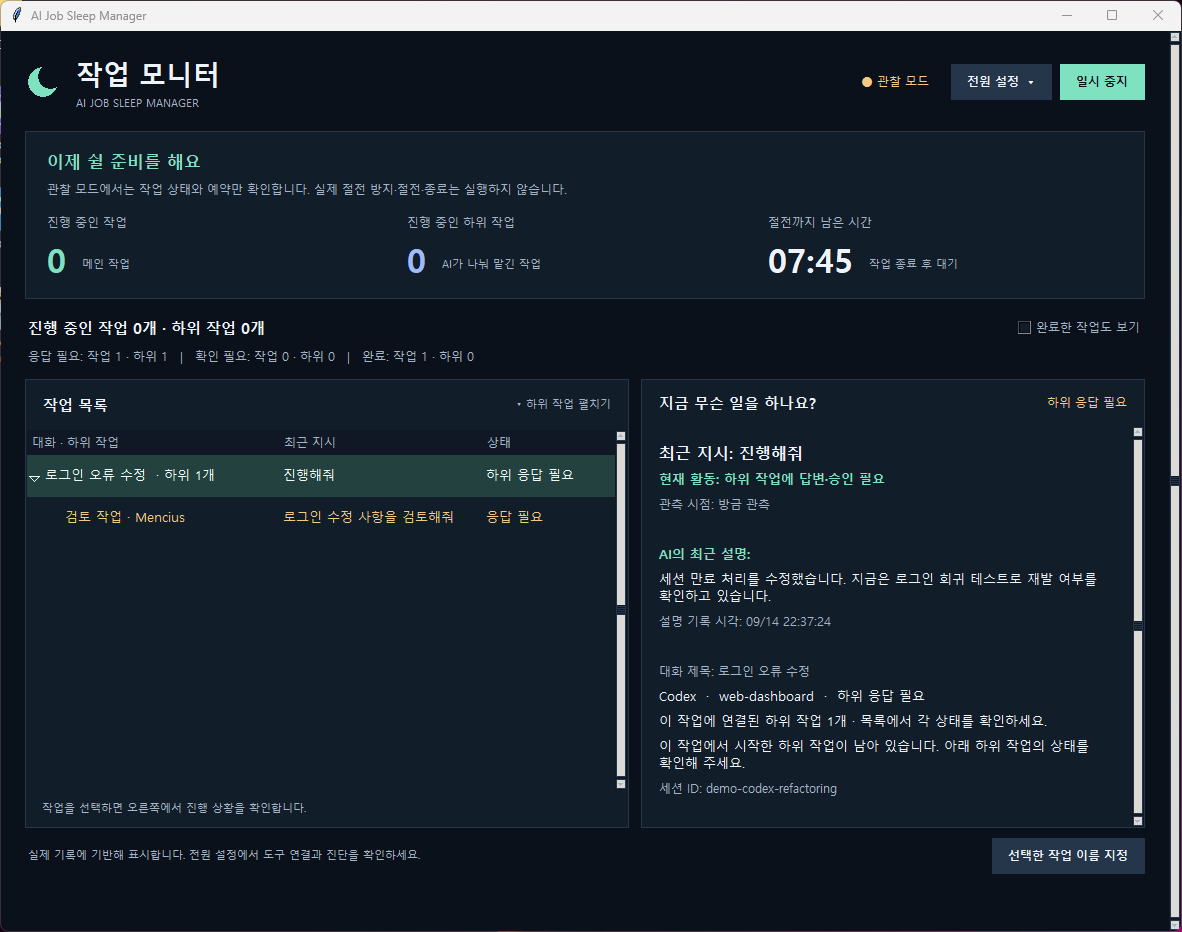
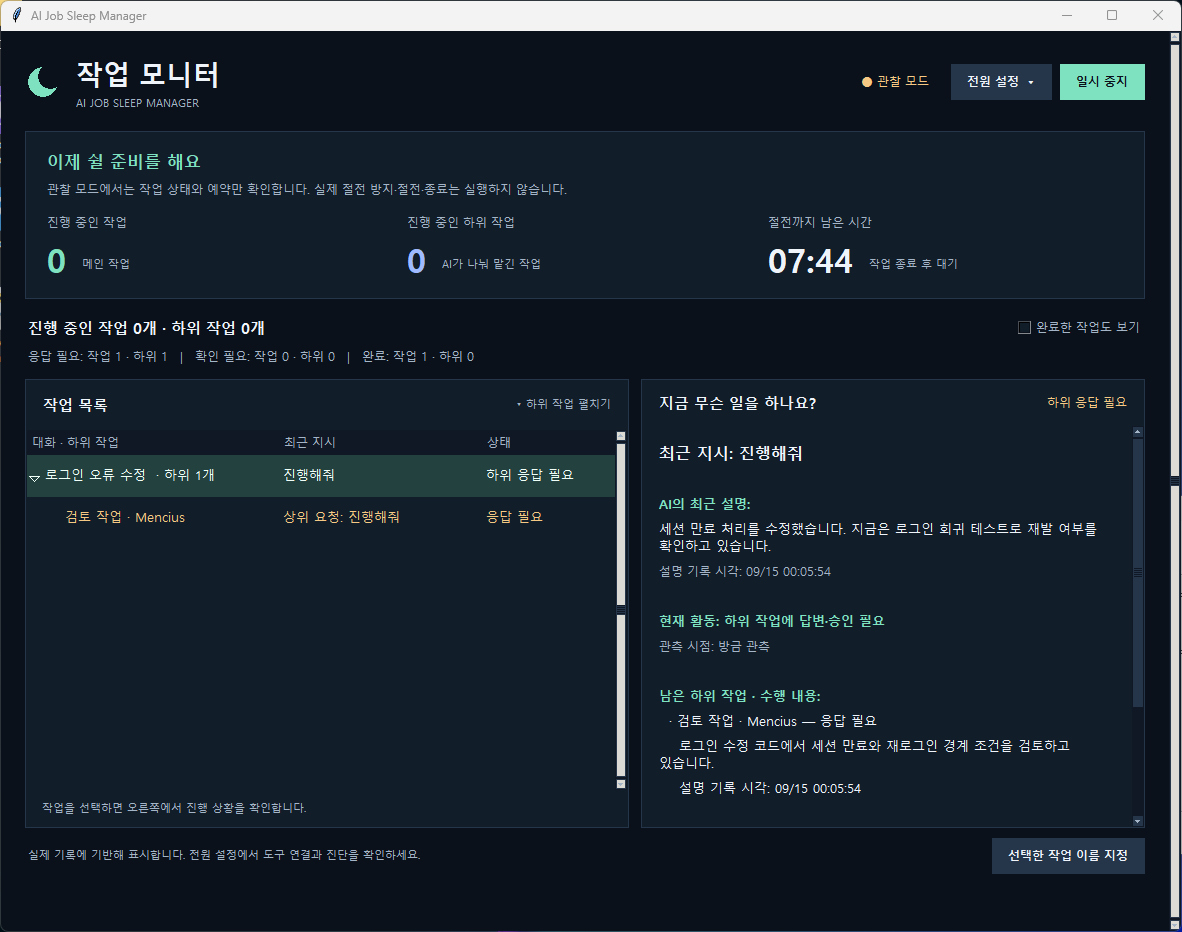
Recover latest requests and connect child task progress

diff --git a/tests/test_request_flow.py b/tests/test_request_flow.py
@@ -1,0 +1,105 @@
+import json
+import tempfile
+import unittest
+from pathlib import Path
+from unittest.mock import patch
+from sleep_manager.codex_logs import CodexLogs
+from sleep_manager.engine import Job
+from sleep_manager.job_view import job_row,group_jobs
+from sleep_manager.activity_view import user_message
+
+SID='00000000-0000-0000-0000-000000000001'
+def record(tag,kind,**kwargs):
+    return dict(type=tag,timestamp='2026-09-14T12:00:00Z',payload=dict(type=kind,**kwargs))
+def directive(value):
+    return record('response_item','message',role='user',content=[dict(type='input_text',text=value)])
+def turn(value): return record('event_msg','task_started',turn_id=value)
+def filler(): return record('response_item','function_call_output',call_id='x',output='x'*1800)
+
+class RequestFlowTests(unittest.TestCase):
+    def read(self,records):
+        with tempfile.TemporaryDirectory() as d:
+            p=Path(d)/('rollout-'+SID+'.jsonl')
+            p.write_text(''.join(json.dumps(r)+'\n' for r in records),encoding='utf-8')
+            reader=CodexLogs(d)
+            with patch('sleep_manager.codex_logs.MAX_READ',2048): events=reader.poll()
+            return reader.details.get(SID,{}),events
+
+    def test_request_outside_tail_is_recovered_without_changing_lifecycle(self):
+        info,events=self.read([turn('current'),directive('구현해줘')]+[filler()]*5)
+        self.assertEqual(info.get('latest_request'),'구현해줘')
+        self.assertEqual(info.get('request_turn'),'current')
+        self.assertEqual([e['kind'] for e in events],['unknown'])
+
+    def test_large_tool_output_between_request_and_tail_does_not_hide_request(self):
+        from sleep_manager.request_history import recover_request
+        with tempfile.TemporaryDirectory() as d:
+            p=Path(d)/'log.jsonl'
+            large=record('response_item','function_call_output',call_id='x',output='x'*(5*1024*1024))
+            p.write_text(''.join(json.dumps(r)+'\n' for r in [turn('current'),directive('구현해줘'),large,filler()]),encoding='utf-8')
+            self.assertEqual(recover_request(p,p.stat().st_size).get('latest_request'),'구현해줘')
+
+    def test_new_turn_without_user_never_inherits_previous_request(self):
+        info,_=self.read([turn('old'),directive('OLD'),turn('new')]+[filler()]*5)
+        self.assertFalse(info.get('latest_request'))
+
+    def test_latest_steering_wins_and_context_is_not_a_request(self):
+        info,_=self.read([turn('current'),directive('OLD'),directive('테스트만 해줘'),directive('<environment_context>context</environment_context>')]+[filler()]*5)
+        self.assertEqual(info.get('latest_request'),'테스트만 해줘')
+
+    def test_recovery_requires_turn_boundary_and_stays_bounded(self):
+        from sleep_manager.request_history import recover_request
+        with tempfile.TemporaryDirectory() as d:
+            p=Path(d)/'log.jsonl'
+            p.write_text(''.join(json.dumps(r)+'\n' for r in [turn('current'),directive('OLD')]+[filler()]*5),encoding='utf-8')
+            self.assertEqual(recover_request(p,p.stat().st_size,max_bytes=2048),{})
+            self.assertEqual(recover_request(p,p.stat().st_size,expected_turn='different'),{})
+
+    def test_mixed_context_blocks_do_not_swallow_user_request(self):
+        request,_=user_message([dict(type='input_text',text='<recommended_plugins>context</recommended_plugins>'),dict(type='input_text',text='오류를 고쳐줘')])
+        self.assertEqual(request,'오류를 고쳐줘')
+
+    def test_parent_request_is_context_not_fabricated_child_instruction(self):
+        rows=group_jobs([job_row(Job('codex','p',state='complete'),dict(latest_request='구현해줘'),'sleep'),job_row(Job('codex','c',state='running'),dict(parent_id='p',commentary='본문 누락 회귀 테스트를 추가하고 있습니다.'),'sleep')])
+        parent,child=rows
+        self.assertEqual(child['parent_request'],'구현해줘')
+        self.assertEqual(child['latest_request'],'최신 지시 미제공')
+        self.assertIn('상위 요청',child['request_display'])
+        self.assertIn('본문 누락',parent['child_work'][0]['description'])
+
+    def test_own_child_instruction_and_missing_parent_remain_distinct(self):
+        rows=group_jobs([job_row(Job('codex','c',state='running'),dict(parent_id='missing',latest_request='검토해줘'),'sleep')])
+        self.assertEqual(rows[0]['request_display'],'검토해줘')
+        self.assertFalse(rows[0]['parent_request'])
+
+    def test_no_parent_request_does_not_use_old_conversation_title(self):
+        rows=group_jobs([job_row(Job('codex','p',state='running'),dict(title='OLD'),'sleep'),job_row(Job('codex','c',state='running'),dict(parent_id='p'),'sleep')])
+        self.assertNotIn('OLD',rows[1]['request_display'])
+        self.assertFalse(rows[1]['parent_request'])
+
+
+@unittest.skipUnless(__import__('os').name=='nt','Windows Tk UI')
+class RequestFlowUITests(unittest.TestCase):
+    def test_parent_shows_remaining_child_work_and_child_shows_request_provenance(self):
+        from types import SimpleNamespace
+        from sleep_manager.controller import Controller
+        from sleep_manager.storage import Store
+        from sleep_manager.ui import Window
+        from test_app import Power,Reader
+        with tempfile.TemporaryDirectory() as d:
+            reader=Reader(); reader.details={'p':dict(latest_request='구현해줘'),'c':dict(parent_id='p',commentary='긴 본문 누락 회귀 테스트를 추가하고 있습니다.')}
+            c=Controller(Store(Path(d)),Power(),reader)
+            for sid in ['p','c']: c._accept(dict(provider='codex',session_id=sid,kind='start'))
+            w=Window(c,SimpleNamespace(smoke_ui=False,data_dir=Path(d)),[]);w.root.withdraw()
+            w.catalog=SimpleNamespace(lookup=lambda jobs:{'codex:p':dict(title='기술 피드 개선'),'codex:c':dict(title='구현 작업 · Fermat')})
+            try:
+                w.render_jobs();w.table.selection_set('codex:p');w.show_job_details()
+                detail=w.details.get('1.0','end')
+                self.assertIn('남은 하위 작업',detail)
+                self.assertIn('긴 본문 누락 회귀 테스트',detail)
+                w.table.selection_set('codex:c');w.show_job_details()
+                detail=w.details.get('1.0','end')
+                self.assertIn('상위 사용자 지시: 구현해줘',detail)
+                self.assertIn('하위 지시 본문은 기록에 제공되지 않았습니다',detail)
+                self.assertIn('상위 요청: 구현해줘',w.table.item('codex:c','values'))
+            finally:w.close()

diff --git a/sleep_manager/ui.py b/sleep_manager/ui.py
@@ -259,7 +259,7 @@ class Window:
         for key in previous_keys-wanted:
             if self.table.exists(key): self.table.delete(key)
         for row in visible:
-            values=tuple(row[field] for field in ('tool','latest_request','state','current_activity'))
+            values=tuple(row[field] for field in ('tool','request_display','state','current_activity'))
             text=row['title']
             if row['child_count']: text+=f"  · 하위 {row['child_count']}개"
             if row['is_child'] and not row['parent_key']: text+='  (부모 미확인)'
@@ -284,7 +284,7 @@ class Window:
         self.details.config(state='normal')
         self.details.delete('1.0',tk.END); self.details.insert('1.0',text)
         for line_number,line in enumerate(text.splitlines(),1):
-            tag=('request' if line.startswith('최근 지시:') else 'heading' if line.startswith(('현재 활동:','AI의 최근 설명:','최근 실행 흐름','AI가 공유한 계획:')) else 'muted' if line.startswith(('관측 시점:','설명 기록 시각:','대화 제목:','세션 ID:')) else None)
+            tag=('request' if line.startswith(('최근 지시:','상위 사용자 지시:')) else 'heading' if line.startswith(('현재 활동:','AI의 최근 설명:','최근 실행 흐름','AI가 공유한 계획:','남은 하위 작업')) else 'muted' if line.startswith(('관측 시점:','설명 기록 시각:','대화 제목:','세션 ID:')) else None)
             if tag: self.details.tag_add(tag,f'{line_number}.0',f'{line_number}.end')
         self.details.config(state='disabled')
 
@@ -293,17 +293,26 @@ class Window:
         row=self.job_rows.get(selected[0]) if selected else None
         if not row: return
         self.detail_badge.config(text=row['state'],fg={'running':TEAL,'waiting':AMBER,'unknown':'#f3a8a8'}.get(row['category'],MUTED))
-        lines=['최근 지시: '+row['latest_request'],
-               '현재 활동: '+row['current_activity'],
-               '관측 시점: '+row['activity_updated']]
+        if row['is_child'] and row['parent_request']:
+            lines=['상위 사용자 지시: '+row['parent_request']]
+            if row['latest_request']=='최신 지시 미제공':
+                lines.append('하위 지시 본문은 기록에 제공되지 않았습니다. 아래는 이 에이전트의 공개 설명입니다.')
+            else: lines.append('최근 지시: '+row['latest_request'])
+        else: lines=['최근 지시: '+row['latest_request']]
         if row['commentary']:
             lines.extend(['', 'AI의 최근 설명:',row['commentary']])
             if row['commentary_at']: lines.append('설명 기록 시각: '+row['commentary_at'])
         else:
-            lines.append('AI의 최근 설명: 이 지시에 대한 공개 진행 설명이 아직 없습니다.')
-        if row['activity_history']:
-            lines.extend(['', '최근 실행 흐름 (관측된 도구 요청·응답):'])
-            for item in row['activity_history'][-4:]: lines.append('  · '+item['text'])
+            current=next((p['step'] for p in row['plan'] if p['status']=='in_progress'),'')
+            lines.extend(['', 'AI의 최근 설명:',
+                '공유된 계획의 현재 단계: '+current if current else '이 지시에 대한 공개 진행 설명이 아직 없습니다.'])
+        lines.extend(['', '현재 활동: '+row['current_activity'],'관측 시점: '+row['activity_updated']])
+        if row['child_work']:
+            lines.extend(['', '남은 하위 작업 · 수행 내용:'])
+            for child in row['child_work']:
+                lines.extend(['  · '+child['title']+' — '+child['state'], '    '+child['description']])
+                if child['commentary_at']: lines.append('    설명 기록 시각: '+child['commentary_at'])
+                else: lines.append('    '+child['updated'])
         lines.extend(['', '대화 제목: '+row['title'],row['tool']+'  ·  '+row['project']+'  ·  '+row['state']])
         if row['relation']: lines.append(row['relation'])
         if row['child_count']: lines.append(f"이 작업에 연결된 하위 작업 {row['child_count']}개 · 목록에서 각 상태를 확인하세요.")
@@ -315,6 +324,9 @@ class Window:
                 lines.append('['+marker+'] '+step['step'])
         elif row['category']=='running':
             lines.append('공유된 계획이 생기면 예정·완료 단계도 함께 표시합니다.')
+        if row['activity_history']:
+            lines.extend(['', '최근 실행 흐름 (관측된 도구 요청·응답):'])
+            for item in row['activity_history'][-4:]: lines.append('  · '+item['text'])
         lines.append('세션 ID: '+row['session_id'])
         self.set_detail('\n'.join(lines))
 

diff --git a/sleep_manager/request_history.py b/sleep_manager/request_history.py
@@ -1,0 +1,46 @@
+"""Bounded, display-only recovery of the latest request within a proven turn."""
+import json
+from .activity_view import user_message,is_context,text
+
+MAX_HISTORY=32*1024*1024
+BLOCK=1024*1024
+MAX_RECORD=MAX_HISTORY
+
+
+def recover_request(path,end,expected_turn='',max_bytes=MAX_HISTORY):
+    # Work backwards without loading a whole transcript or replaying lifecycle events.
+    candidate={}; carry=b''; cursor=end; floor=max(0,end-max_bytes)
+    try:
+        with path.open('rb') as stream:
+            while cursor>floor:
+                start=max(floor,cursor-BLOCK)
+                stream.seek(start)
+                data=stream.read(cursor-start)+carry
+                cursor=start
+                lines=data.split(b'\n'); carry=lines.pop(0)
+                if cursor==0: lines.insert(0,carry); carry=b''
+                for raw in reversed(lines):
+                    if not raw: continue
+                    if len(raw)>MAX_RECORD: return {}
+                    record=json.loads(raw)
+                    if not isinstance(record,dict): return {}
+                    payload=record.get('payload',{})
+                    if not isinstance(payload,dict): continue
+                    tag=record.get('type'); kind=payload.get('type')
+                    if tag=='event_msg' and kind=='task_started':
+                        turn=text(payload.get('turn_id'),128)
+                        if not turn or (expected_turn and turn!=expected_turn): return {}
+                        return dict(candidate,request_turn=turn) if candidate else {}
+                    if candidate: continue
+                    content=None
+                    if tag=='response_item' and kind=='message' and payload.get('role')=='user': content=payload.get('content')
+                    elif tag=='event_msg' and kind=='user_message':
+                        content=[dict(type='input_text',text=payload.get('message',''))]
+                        if payload.get('images'): content.append(dict(type='input_image'))
+                    if content is not None:
+                        request,_=user_message(content)
+                        if request and not is_context(request):
+                            candidate=dict(latest_request=request,request_at=text(record.get('timestamp'),64))
+                if len(carry)>MAX_RECORD: return {}
+    except (OSError,ValueError,TypeError,RecursionError): pass
+    return {}

diff --git a/sleep_manager/job_view.py b/sleep_manager/job_view.py
@@ -212,6 +212,25 @@ def group_jobs(rows):
             row['remaining']={'running':'하위 작업 실행 종료 대기','unknown':'하위 작업 상태 확인 필요','waiting':'하위 작업에 답변·승인 필요'}[category]
             row['current_activity']=row['remaining']
             row['reason']='이 작업에서 시작한 하위 작업이 남아 있습니다. 아래 하위 작업의 상태를 확인해 주세요.'
+    # Parent requests are context, never invented direct instructions to a child.
+    for key in order:
+        row=nodes[key]; parent=nodes.get(row['parent_key'])
+        own=row.get('latest_request','최신 지시 미제공')
+        row['parent_request']=''
+        if parent:
+            row['parent_request']=(parent['latest_request'] if parent.get('latest_request') not in (None,'최신 지시 미제공') else parent.get('parent_request',''))
+        row['request_display']=own
+        if own=='최신 지시 미제공' and row['parent_request']:
+            row['request_display']='상위 요청: '+row['parent_request']
+        row['child_work']=[]
+        for child_key in children[key]:
+            child=nodes[child_key]
+            if not child['pending']: continue
+            current=next((p['step'] for p in child.get('plan',[]) if p['status']=='in_progress'),'')
+            row['child_work'].append(dict(title=child['title'],state=child['state'],
+                description=child.get('commentary') or current or child.get('current_activity','현재 활동 기록 미제공'),
+                updated=child.get('activity_updated','갱신 시각 미확인'),
+                commentary_at=child.get('commentary_at','')))
     def sort_key(key):
         r=nodes[key]
         return priority[r['category']],r['project'],r['title'],key

diff --git a/scripts/capture_screenshots.py b/scripts/capture_screenshots.py
@@ -43,10 +43,10 @@ class PreviewCatalog:
         return {
             'codex:demo-codex-refactoring': dict(title='로그인 오류 수정',project='web-dashboard',latest_request='진행해줘',activity='터미널 명령 실행 중',activity_at=datetime.now(timezone.utc).isoformat(),commentary='세션 만료 처리를 수정했습니다. 지금은 로그인 회귀 테스트로 재발 여부를 확인하고 있습니다.',commentary_at=datetime.now(timezone.utc).isoformat(),plan=[
                 dict(step='오류 원인 확인',status='completed'),
-                dict(step='세션 만료 처리 수정',status='in_progress'),
-                dict(step='회귀 테스트 실행',status='pending')]),
+                dict(step='세션 만료 처리 수정',status='completed'),
+                dict(step='회귀 테스트 실행',status='in_progress')]),
             'claude:demo-claude-tests': dict(title='API 회귀 테스트 추가',project='api-server'),
-            'codex:demo-codex-review': dict(title='검토 작업 · Mencius',project='web-dashboard',parent_id='demo-codex-refactoring',latest_request='로그인 수정 사항을 검토해줘',activity='파일 조회 도구 실행 중',activity_at=datetime.now(timezone.utc).isoformat()),
+            'codex:demo-codex-review': dict(title='검토 작업 · Mencius',project='web-dashboard',parent_id='demo-codex-refactoring',commentary='로그인 수정 코드에서 세션 만료와 재로그인 경계 조건을 검토하고 있습니다.',commentary_at=datetime.now(timezone.utc).isoformat(),activity='파일 조회 도구 실행 중',activity_at=datetime.now(timezone.utc).isoformat()),
         }
 
 

diff --git a/sleep_manager/codex_logs.py b/sleep_manager/codex_logs.py
@@ -6,6 +6,7 @@ import re
 import time
 from .job_view import observe_details
 from .activity_view import reset_activity
+from .request_history import recover_request
 
 UUID=re.compile(r'([0-9a-f]{8}(?:-[0-9a-f]{4}){3}-[0-9a-f]{12})',re.I)
 TERMINAL={'complete','failed','cancelled'}
@@ -78,6 +79,7 @@ class CodexLogs:
                     self.clear_details(session)
                     state['offset']=0
                     state['first']=False
+                    state.pop('request_recovery_turn',None)
                     events.append(self.unknown(session))
                 uncertain=False
                 with path.open('rb') as f:
@@ -121,6 +123,13 @@ class CodexLogs:
                     except (ValueError,TypeError,AttributeError,RecursionError):
                         self.clear_details(session)
                         batch.append(self.unknown(session))
+                info=self.details.setdefault(session,{})
+                turn=info.get('activity_turn','')
+                if not info.get('latest_request') and (uncertain or state['first'] or state.get('request_recovery_turn')!=turn):
+                    # A request may precede the lifecycle tail by many megabytes.
+                    # Restore only a request proven to belong to the latest turn.
+                    info.update(recover_request(path,state['offset'],expected_turn=turn))
+                    state['request_recovery_turn']=turn
                 if state['first']:
                     state['first']=False
                     # Opening the manager must not arm sleep for already finished history.

diff --git a/sleep_manager/activity_view.py b/sleep_manager/activity_view.py
@@ -3,7 +3,7 @@ from datetime import datetime
 import re
 import time
 
-FIELDS=('latest_request','request_at','commentary','commentary_at','activity','activity_at','activity_history','activity_calls','activity_turn')
+FIELDS=('latest_request','request_at','commentary','commentary_at','activity','activity_at','activity_history','activity_calls','activity_turn','request_turn')
 
 
 def text(value,limit=500):
@@ -29,7 +29,9 @@ def user_message(content):
     parts=[]; available=65536
     for item in blocks:
         if not isinstance(item,dict) or item.get('type')!='input_text' or not isinstance(item.get('text'),str): continue
-        part=item['text'][:available]; parts.append(part); available-=len(part)
+        part=item['text'][:available]
+        if is_context(part): continue
+        parts.append(part); available-=len(part)
         if not available: break
     raw='\n'.join(parts)
     envelope=raw.lstrip().startswith('# Files mentioned by the user:')
